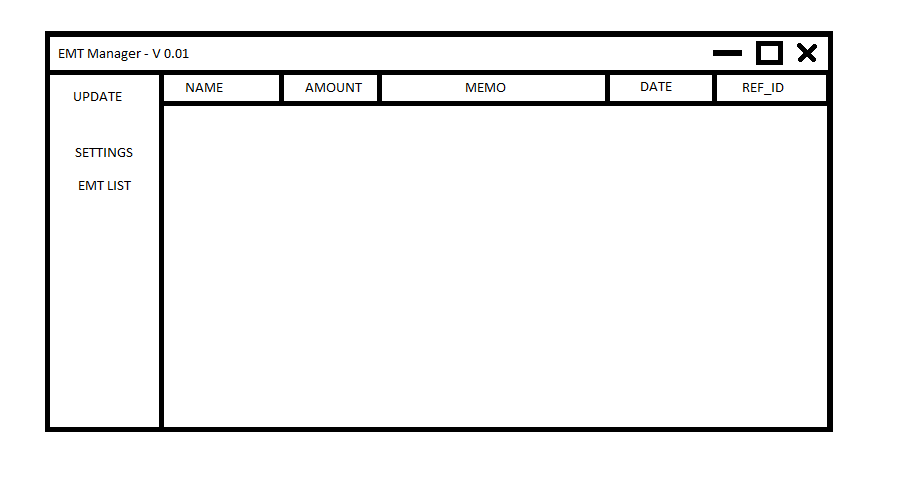
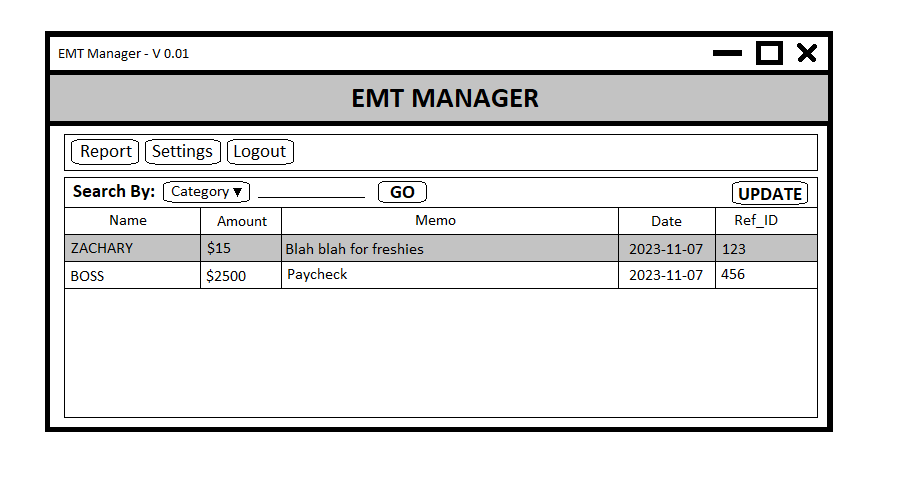
Started GUI Development
- Added Basic GUI functionality as main.c
- Updated GUI sample design

Changed region(s): [[0.0312, 0.1546, 0.9354, 0.866]]

diff --git a/customtkinter_example.py b/customtkinter_example.py
@@ -1,0 +1,164 @@
+import tkinter
+import tkinter.messagebox
+import customtkinter
+
+customtkinter.set_appearance_mode("System")  # Modes: "System" (standard), "Dark", "Light"
+customtkinter.set_default_color_theme("blue")  # Themes: "blue" (standard), "green", "dark-blue"
+
+
+class App(customtkinter.CTk):
+    def __init__(self):
+        super().__init__()
+
+        # configure window
+        self.title("CustomTkinter complex_example.py")
+        self.geometry(f"{1100}x{580}")
+
+        # configure grid layout (4x4)
+        self.grid_columnconfigure(1, weight=1)
+        self.grid_columnconfigure((2, 3), weight=0)
+        self.grid_rowconfigure((0, 1, 2), weight=1)
+
+        # create sidebar frame with widgets
+        self.sidebar_frame = customtkinter.CTkFrame(self, width=140, corner_radius=0)
+        self.sidebar_frame.grid(row=0, column=0, rowspan=4, sticky="nsew")
+        self.sidebar_frame.grid_rowconfigure(4, weight=1)
+        self.logo_label = customtkinter.CTkLabel(self.sidebar_frame, text="CustomTkinter", font=customtkinter.CTkFont(size=20, weight="bold"))
+        self.logo_label.grid(row=0, column=0, padx=20, pady=(20, 10))
+        self.sidebar_button_1 = customtkinter.CTkButton(self.sidebar_frame, command=self.sidebar_button_event)
+        self.sidebar_button_1.grid(row=1, column=0, padx=20, pady=10)
+        self.sidebar_button_2 = customtkinter.CTkButton(self.sidebar_frame, command=self.sidebar_button_event)
+        self.sidebar_button_2.grid(row=2, column=0, padx=20, pady=10)
+        self.sidebar_button_3 = customtkinter.CTkButton(self.sidebar_frame, command=self.sidebar_button_event)
+        self.sidebar_button_3.grid(row=3, column=0, padx=20, pady=10)
+        self.appearance_mode_label = customtkinter.CTkLabel(self.sidebar_frame, text="Appearance Mode:", anchor="w")
+        self.appearance_mode_label.grid(row=5, column=0, padx=20, pady=(10, 0))
+        self.appearance_mode_optionemenu = customtkinter.CTkOptionMenu(self.sidebar_frame, values=["Light", "Dark", "System"],
+                                                                       command=self.change_appearance_mode_event)
+        self.appearance_mode_optionemenu.grid(row=6, column=0, padx=20, pady=(10, 10))
+        self.scaling_label = customtkinter.CTkLabel(self.sidebar_frame, text="UI Scaling:", anchor="w")
+        self.scaling_label.grid(row=7, column=0, padx=20, pady=(10, 0))
+        self.scaling_optionemenu = customtkinter.CTkOptionMenu(self.sidebar_frame, values=["80%", "90%", "100%", "110%", "120%"],
+                                                               command=self.change_scaling_event)
+        self.scaling_optionemenu.grid(row=8, column=0, padx=20, pady=(10, 20))
+
+        # create main entry and button
+        self.entry = customtkinter.CTkEntry(self, placeholder_text="CTkEntry")
+        self.entry.grid(row=3, column=1, columnspan=2, padx=(20, 0), pady=(20, 20), sticky="nsew")
+
+        self.main_button_1 = customtkinter.CTkButton(master=self, fg_color="transparent", border_width=2, text_color=("gray10", "#DCE4EE"))
+        self.main_button_1.grid(row=3, column=3, padx=(20, 20), pady=(20, 20), sticky="nsew")
+
+        # create textbox
+        self.textbox = customtkinter.CTkTextbox(self, width=250)
+        self.textbox.grid(row=0, column=1, padx=(20, 0), pady=(20, 0), sticky="nsew")
+
+        # create tabview
+        self.tabview = customtkinter.CTkTabview(self, width=250)
+        self.tabview.grid(row=0, column=2, padx=(20, 0), pady=(20, 0), sticky="nsew")
+        self.tabview.add("CTkTabview")
+        self.tabview.add("Tab 2")
+        self.tabview.add("Tab 3")
+        self.tabview.tab("CTkTabview").grid_columnconfigure(0, weight=1)  # configure grid of individual tabs
+        self.tabview.tab("Tab 2").grid_columnconfigure(0, weight=1)
+
+        self.optionmenu_1 = customtkinter.CTkOptionMenu(self.tabview.tab("CTkTabview"), dynamic_resizing=False,
+                                                        values=["Value 1", "Value 2", "Value Long Long Long"])
+        self.optionmenu_1.grid(row=0, column=0, padx=20, pady=(20, 10))
+        self.combobox_1 = customtkinter.CTkComboBox(self.tabview.tab("CTkTabview"),
+                                                    values=["Value 1", "Value 2", "Value Long....."])
+        self.combobox_1.grid(row=1, column=0, padx=20, pady=(10, 10))
+        self.string_input_button = customtkinter.CTkButton(self.tabview.tab("CTkTabview"), text="Open CTkInputDialog",
+                                                           command=self.open_input_dialog_event)
+        self.string_input_button.grid(row=2, column=0, padx=20, pady=(10, 10))
+        self.label_tab_2 = customtkinter.CTkLabel(self.tabview.tab("Tab 2"), text="CTkLabel on Tab 2")
+        self.label_tab_2.grid(row=0, column=0, padx=20, pady=20)
+
+        # create radiobutton frame
+        self.radiobutton_frame = customtkinter.CTkFrame(self)
+        self.radiobutton_frame.grid(row=0, column=3, padx=(20, 20), pady=(20, 0), sticky="nsew")
+        self.radio_var = tkinter.IntVar(value=0)
+        self.label_radio_group = customtkinter.CTkLabel(master=self.radiobutton_frame, text="CTkRadioButton Group:")
+        self.label_radio_group.grid(row=0, column=2, columnspan=1, padx=10, pady=10, sticky="")
+        self.radio_button_1 = customtkinter.CTkRadioButton(master=self.radiobutton_frame, variable=self.radio_var, value=0)
+        self.radio_button_1.grid(row=1, column=2, pady=10, padx=20, sticky="n")
+        self.radio_button_2 = customtkinter.CTkRadioButton(master=self.radiobutton_frame, variable=self.radio_var, value=1)
+        self.radio_button_2.grid(row=2, column=2, pady=10, padx=20, sticky="n")
+        self.radio_button_3 = customtkinter.CTkRadioButton(master=self.radiobutton_frame, variable=self.radio_var, value=2)
+        self.radio_button_3.grid(row=3, column=2, pady=10, padx=20, sticky="n")
+
+        # create slider and progressbar frame
+        self.slider_progressbar_frame = customtkinter.CTkFrame(self, fg_color="transparent")
+        self.slider_progressbar_frame.grid(row=1, column=1, padx=(20, 0), pady=(20, 0), sticky="nsew")
+        self.slider_progressbar_frame.grid_columnconfigure(0, weight=1)
+        self.slider_progressbar_frame.grid_rowconfigure(4, weight=1)
+        self.seg_button_1 = customtkinter.CTkSegmentedButton(self.slider_progressbar_frame)
+        self.seg_button_1.grid(row=0, column=0, padx=(20, 10), pady=(10, 10), sticky="ew")
+        self.progressbar_1 = customtkinter.CTkProgressBar(self.slider_progressbar_frame)
+        self.progressbar_1.grid(row=1, column=0, padx=(20, 10), pady=(10, 10), sticky="ew")
+        self.progressbar_2 = customtkinter.CTkProgressBar(self.slider_progressbar_frame)
+        self.progressbar_2.grid(row=2, column=0, padx=(20, 10), pady=(10, 10), sticky="ew")
+        self.slider_1 = customtkinter.CTkSlider(self.slider_progressbar_frame, from_=0, to=1, number_of_steps=4)
+        self.slider_1.grid(row=3, column=0, padx=(20, 10), pady=(10, 10), sticky="ew")
+        self.slider_2 = customtkinter.CTkSlider(self.slider_progressbar_frame, orientation="vertical")
+        self.slider_2.grid(row=0, column=1, rowspan=5, padx=(10, 10), pady=(10, 10), sticky="ns")
+        self.progressbar_3 = customtkinter.CTkProgressBar(self.slider_progressbar_frame, orientation="vertical")
+        self.progressbar_3.grid(row=0, column=2, rowspan=5, padx=(10, 20), pady=(10, 10), sticky="ns")
+
+        # create scrollable frame
+        self.scrollable_frame = customtkinter.CTkScrollableFrame(self, label_text="CTkScrollableFrame")
+        self.scrollable_frame.grid(row=1, column=2, padx=(20, 0), pady=(20, 0), sticky="nsew")
+        self.scrollable_frame.grid_columnconfigure(0, weight=1)
+        self.scrollable_frame_switches = []
+        for i in range(100):
+            switch = customtkinter.CTkSwitch(master=self.scrollable_frame, text=f"CTkSwitch {i}")
+            switch.grid(row=i, column=0, padx=10, pady=(0, 20))
+            self.scrollable_frame_switches.append(switch)
+
+        # create checkbox and switch frame
+        self.checkbox_slider_frame = customtkinter.CTkFrame(self)
+        self.checkbox_slider_frame.grid(row=1, column=3, padx=(20, 20), pady=(20, 0), sticky="nsew")
+        self.checkbox_1 = customtkinter.CTkCheckBox(master=self.checkbox_slider_frame)
+        self.checkbox_1.grid(row=1, column=0, pady=(20, 0), padx=20, sticky="n")
+        self.checkbox_2 = customtkinter.CTkCheckBox(master=self.checkbox_slider_frame)
+        self.checkbox_2.grid(row=2, column=0, pady=(20, 0), padx=20, sticky="n")
+        self.checkbox_3 = customtkinter.CTkCheckBox(master=self.checkbox_slider_frame)
+        self.checkbox_3.grid(row=3, column=0, pady=20, padx=20, sticky="n")
+
+        # set default values
+        self.sidebar_button_3.configure(state="disabled", text="Disabled CTkButton")
+        self.checkbox_3.configure(state="disabled")
+        self.checkbox_1.select()
+        self.scrollable_frame_switches[0].select()
+        self.scrollable_frame_switches[4].select()
+        self.radio_button_3.configure(state="disabled")
+        self.appearance_mode_optionemenu.set("Dark")
+        self.scaling_optionemenu.set("100%")
+        self.optionmenu_1.set("CTkOptionmenu")
+        self.combobox_1.set("CTkComboBox")
+        self.slider_1.configure(command=self.progressbar_2.set)
+        self.slider_2.configure(command=self.progressbar_3.set)
+        self.progressbar_1.configure(mode="indeterminnate")
+        self.progressbar_1.start()
+        self.textbox.insert("0.0", "CTkTextbox\n\n" + "Lorem ipsum dolor sit amet, consetetur sadipscing elitr, sed diam nonumy eirmod tempor invidunt ut labore et dolore magna aliquyam erat, sed diam voluptua.\n\n" * 20)
+        self.seg_button_1.configure(values=["CTkSegmentedButton", "Value 2", "Value 3"])
+        self.seg_button_1.set("Value 2")
+
+    def open_input_dialog_event(self):
+        dialog = customtkinter.CTkInputDialog(text="Type in a number:", title="CTkInputDialog")
+        print("CTkInputDialog:", dialog.get_input())
+
+    def change_appearance_mode_event(self, new_appearance_mode: str):
+        customtkinter.set_appearance_mode(new_appearance_mode)
+
+    def change_scaling_event(self, new_scaling: str):
+        new_scaling_float = int(new_scaling.replace("%", "")) / 100
+        customtkinter.set_widget_scaling(new_scaling_float)
+
+    def sidebar_button_event(self):
+        print("sidebar_button click")
+
+
+if __name__ == "__main__":
+    app = App()
+    app.mainloop()

diff --git a/main.py b/main.py
@@ -1,46 +1,56 @@
-import imaplib
-import email
-from email.header import decode_header
+import tkinter
+import tkinter.messagebox
+import customtkinter
+from CTkTable import *
 
-# Your email and password
-email_user = "prolittle101@hotmail.com"
-email_pass = "8wLdPV_PL5$G5bj"
+customtkinter.set_appearance_mode("System")  # Modes: "System" (standard), "Dark", "Light"
+customtkinter.set_default_color_theme("blue")  # Themes: "blue" (standard), "green", "dark-blue"
 
-# Connect to the IMAP server (Gmail in this example)
-mail = imaplib.IMAP4_SSL("outlook.office365.com")
+class App(customtkinter.CTk):
+    def __init__(self):
+        super().__init__()
 
-# Log in to your email account
-mail.login(email_user, email_pass)
+        self.title("EMT MANAGER")
+        self.geometry(f"{1100}x{580}")
 
-# Select the mailbox you want to work with (e.g., "INBOX" for your inbox)
-mail.select("INBOX")
+        self.grid_columnconfigure(1, weight=1)
+        self.grid_columnconfigure((0,2), weight=0)
+        self.grid_rowconfigure((1), weight=1)
 
-# Search for the email you want (e.g., by subject)
-email_subject = "INTERAC"
-result, data = mail.search(None, f'SUBJECT "{email_subject}"')
+        # Side Bar
 
-# Get the list of email IDs that match the search criteria
-email_id_list = data[0].split()
+        self.sidebar_frame = customtkinter.CTkFrame(self, width=140, corner_radius=0)
+        self.sidebar_frame.grid(row=0, column=0, rowspan=2, sticky="nsew")
+        self.logo_label = customtkinter.CTkLabel(self.sidebar_frame, text="EMT MANAGER", font=customtkinter.CTkFont(size=20, weight="bold"))
+        self.logo_label.grid(row=0, column=0, padx=20, pady=(20, 10))
+        self.report_button = customtkinter.CTkButton(self.sidebar_frame, text="Report", command=self.sidebar_button_event)
+        self.report_button.grid(row=1, column=0, padx=20, pady=10)
+        self.settings_button = customtkinter.CTkButton(self.sidebar_frame, text="Settings", command=self.sidebar_button_event)
+        self.settings_button.grid(row=2, column=0, padx=20, pady=10)
 
-# Assuming you want to fetch the first email that matches the criteria
-for email_id in email_id_list:
-    result, message_data = mail.fetch(email_id, "(RFC822)")
+        # Search Bar
 
-    # Parse the email content
-    raw_email = message_data[0][1]
-    email_message = email.message_from_bytes(raw_email)
+        self.search_frame = customtkinter.CTkFrame(self, height=35, corner_radius=0)
+        self.search_frame.grid(row=0, column=1, rowspan=1, padx=10, pady=(10,0), sticky="nsew")
+        self.search_entry = customtkinter.CTkEntry(self, placeholder_text="Description")
+        self.search_entry.grid(row=0, column=1, padx=10, pady=(10,0), sticky="nsew")
+        self.search_button = customtkinter.CTkButton(master=self, text="Search", fg_color="transparent", border_width=2, text_color=("gray10", "#DCE4EE"))
+        self.search_button.grid(row=0, column=2, padx=(0,10), pady=(10,0), sticky="nsew")
 
-    # Extract the email text
-    email_text = ""
+        # Table Data
 
-    for part in email_message.walk():
-        if part.get_content_type() == "text/plain":
-            email_text = part.get_payload(decode=True).decode(part.get_content_charset(), errors="ignore")
+        self.data_frame = customtkinter.CTkFrame(self, corner_radius=0)
+        self.data_frame.grid(row=1, column=1, columnspan=2, padx=10, pady=10, sticky="nsew")
 
-    print("Email text:")
-    print(email_text)
-    print("="*100)
+        self.emt_table = CTkTable(master=self.data_frame, corner_radius=0, row=5, column=5, values=[["Name","Amount","Memo","Date","Ref_ID"]])
+        self.emt_table.grid(row=2, column=1, columnspan=2, sticky="nsew")
 
-# Close the mailbox and log out
-mail.close
-mail.logout()
+    def sidebar_button_event(self):
+        print("sidebar_button click")
+
+    def search_button_event(self):
+        print("sidebar_button click")
+
+if __name__ == "__main__":
+    app = App()
+    app.mainloop()

diff --git a/scrapper.py b/scrapper.py
@@ -1,0 +1,46 @@
+import imaplib
+import email
+from email.header import decode_header
+
+# Your email and password
+email_user = "prolittle101@hotmail.com"
+email_pass = "8wLdPV_PL5$G5bj"
+
+# Connect to the IMAP server (Gmail in this example)
+mail = imaplib.IMAP4_SSL("outlook.office365.com")
+
+# Log in to your email account
+mail.login(email_user, email_pass)
+
+# Select the mailbox you want to work with (e.g., "INBOX" for your inbox)
+mail.select("INBOX")
+
+# Search for the email you want (e.g., by subject)
+email_subject = "INTERAC"
+result, data = mail.search(None, f'SUBJECT "{email_subject}"')
+
+# Get the list of email IDs that match the search criteria
+email_id_list = data[0].split()
+
+# Assuming you want to fetch the first email that matches the criteria
+for email_id in email_id_list:
+    result, message_data = mail.fetch(email_id, "(RFC822)")
+
+    # Parse the email content
+    raw_email = message_data[0][1]
+    email_message = email.message_from_bytes(raw_email)
+
+    # Extract the email text
+    email_text = ""
+
+    for part in email_message.walk():
+        if part.get_content_type() == "text/plain":
+            email_text = part.get_payload(decode=True).decode(part.get_content_charset(), errors="ignore")
+
+    print("Email text:")
+    print(email_text)
+    print("="*100)
+
+# Close the mailbox and log out
+mail.close
+mail.logout()
